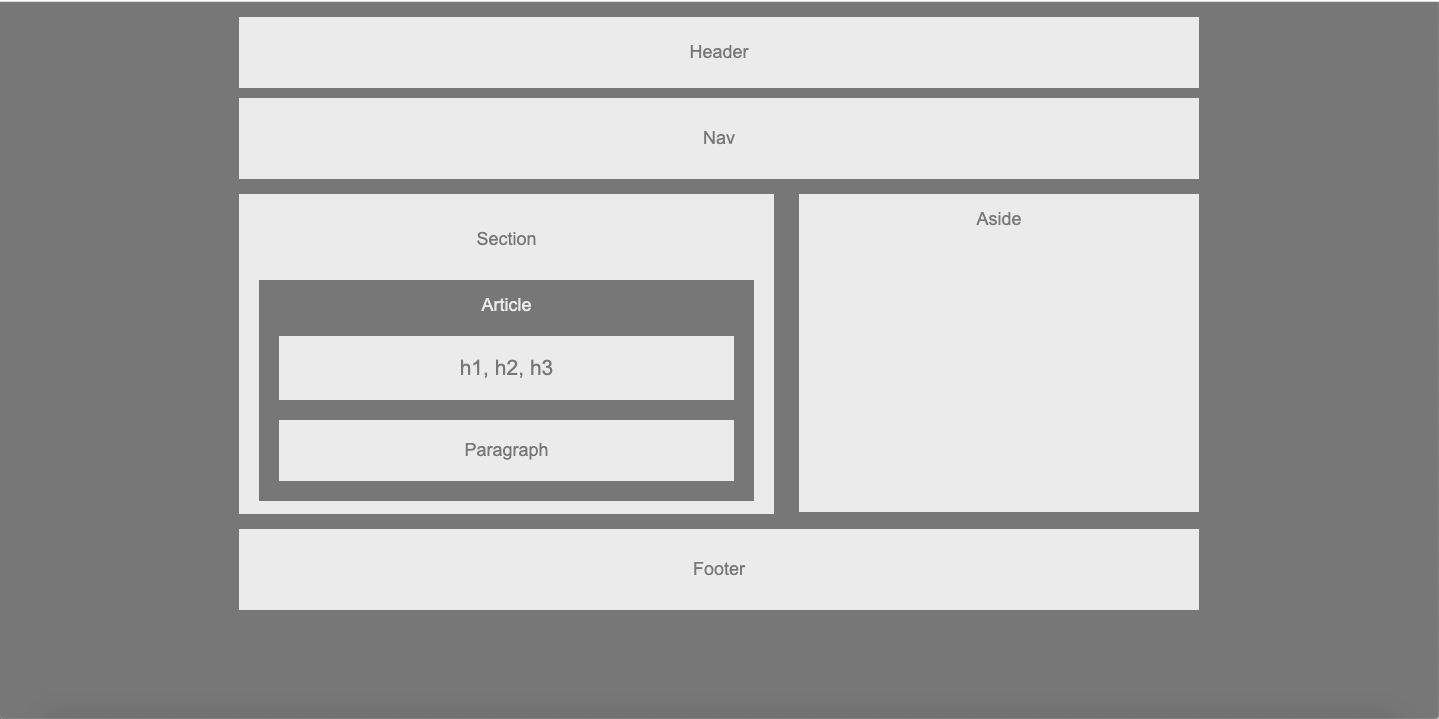
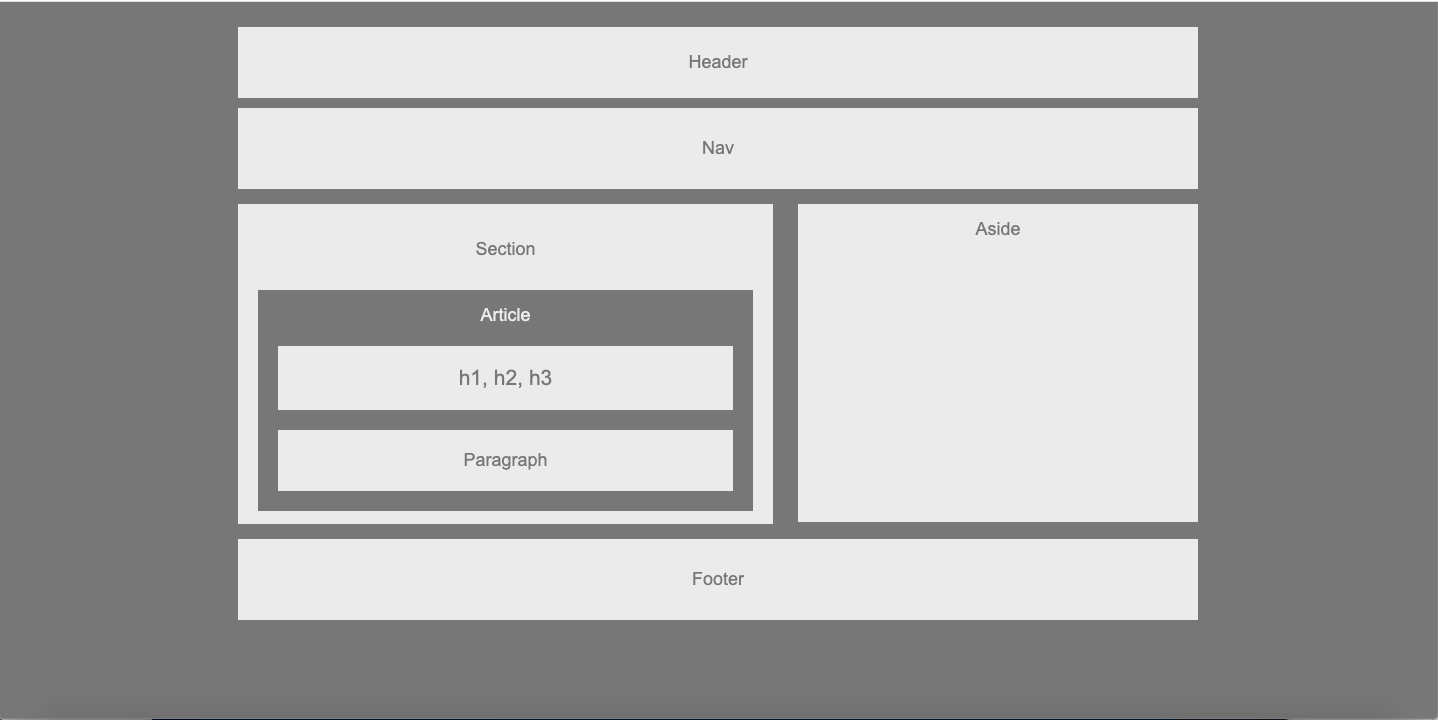
updated screenshot

diff --git a/style.css b/style.css
@@ -23,7 +23,7 @@ Section, Aside, Footer {
 }
 /* This is the style for the header only */
 Header {
-    margin-top: 15px;
+    margin-top: 25px;
     padding: 25px;
     margin-bottom: 10px;
 }
